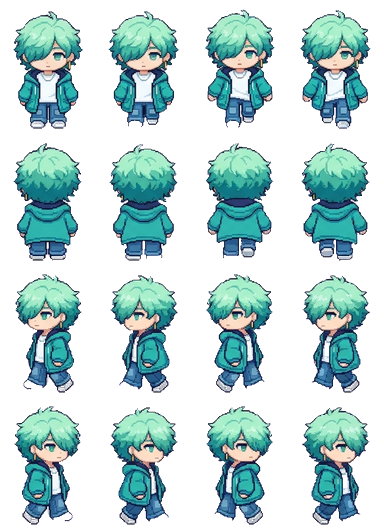
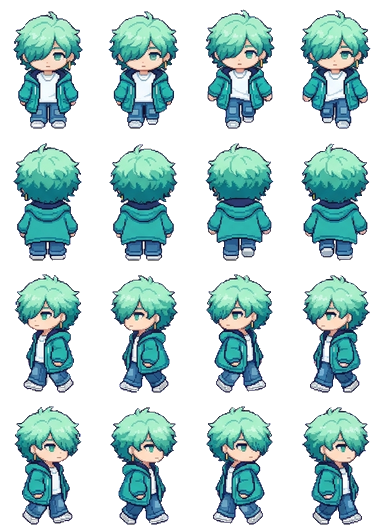
우고 카나토 흰 신발 누끼 복원, 히데오 옆머리 매끈하게
Claude-Session: https://claude.ai/code/session_01KaPsBYLrtbRfMYNG2xeBCK

diff --git a/docs/app.js b/docs/app.js
@@ -48,7 +48,7 @@ function spr(cat, k, col, sc) {
   return `<div class="clip" style="width:${it[2] * sc}px;height:${it[3] * sc}px;POS"><img class="px" src="assets/decor/${cat}.png" alt="" style="width:${S.sw * sc}px;height:${S.sh * sc}px;margin-left:${-col * S.cw * sc}px;margin-top:${-i * S.ch * sc}px"></div>`;
 }
 const icon = (k, sz) => `<span class="itm" style="width:${sz}px;height:${sz}px"><img class="px" src="assets/ui/items.png" alt="" style="width:${IT.length * sz}px;height:${sz}px;margin-left:${-ITM[k].i * sz}px"></span>`;
-const face = (id, w) => { const s = w / 96; return `<img class="px" src="assets/ch/${id}.webp?v=4" alt="" style="position:absolute;width:${384 * s}px;height:${528 * s}px;left:${-(96 * s - w) / 2}px;top:0;max-width:none">`; };
+const face = (id, w) => { const s = w / 96; return `<img class="px" src="assets/ch/${id}.webp?v=5" alt="" style="position:absolute;width:${384 * s}px;height:${528 * s}px;left:${-(96 * s - w) / 2}px;top:0;max-width:none">`; };
 
 // ---------- 저장 ----------
 let fb = null, user = null, S = null, saveT = null;
@@ -115,7 +115,7 @@ function sleepHTML(id, r) {
   const pos = r.a && r.a[0] === 'bed' ? 'left:3%;bottom:20%' : r.b && r.b[0] === 'bed' ? 'right:3%;bottom:20%' : 'left:calc(50% - 44px);bottom:6%';
   const s = 36 / 96;
   return `<div style="position:absolute;width:88px;height:56px;${pos};z-index:5"><div style="position:absolute;inset:0;filter:brightness(.22)">
-    <div style="position:absolute;left:11px;top:1px;width:36px;height:50px;overflow:hidden;transform:rotate(-90deg)"><img class="px" src="assets/ch/${id}.webp?v=4" alt="" style="width:${384 * s}px;height:${528 * s}px;max-width:none;margin-top:${-132 * s}px"></div>
+    <div style="position:absolute;left:11px;top:1px;width:36px;height:50px;overflow:hidden;transform:rotate(-90deg)"><img class="px" src="assets/ch/${id}.webp?v=5" alt="" style="width:${384 * s}px;height:${528 * s}px;max-width:none;margin-top:${-132 * s}px"></div>
     <div style="position:absolute;left:19px;top:19px;width:67px;height:29px;border:2px solid var(--ink);border-radius:8px 6px 4px 4px;background:#8ccff5;background-image:repeating-linear-gradient(90deg,transparent 0 10px,rgba(255,255,255,.5) 10px 13px)"></div></div>
     <span class="emo" style="left:8px;top:-22px;color:#5b6bd6">Z z z</span></div>`;
 }
@@ -125,7 +125,7 @@ function roomHTML(id, o, scale) {
     <div class="floor" style="background-color:${PAL[r.fc][1]};background-image:${tileUrl('floor', r.fl)}"></div>
     ${slot('deco', r.dc, 'left:6%;top:6%')}${slot('furn', r.a, 'left:3%;bottom:20%')}${slot('furn', r.b, 'right:3%;bottom:20%')}${slot('prop', r.pr, 'left:28%;bottom:4%;z-index:2')}
     ${id && o.sleeping ? sleepHTML(id, r) : ''}${id && o.job ? `<div style="position:absolute;left:50%;top:38%;transform:translateX(-50%);z-index:5;background:#fff;border:3px solid var(--ink);border-radius:10px;padding:6px 10px;font-size:11px;text-align:center;line-height:1.5"><img src="assets/ui/ic_job.png" alt="" style="width:18px;vertical-align:-4px"> ${esc(JOB_NAME[id])} 알바 중<br><b id="jobleft">${timeLeft(o.job.until)}</b></div>` : ''}
-    ${id ? `<div class="shadow" id="shd"></div><div class="man" id="man"><img class="px" src="assets/ch/${id}.webp?v=4" alt="${esc(nameOf(id))}"></div><span class="emo" id="emo" hidden></span><span class="mumble" id="mum" hidden></span>` : ''}
+    ${id ? `<div class="shadow" id="shd"></div><div class="man" id="man"><img class="px" src="assets/ch/${id}.webp?v=5" alt="${esc(nameOf(id))}"></div><span class="emo" id="emo" hidden></span><span class="mumble" id="mum" hidden></span>` : ''}
     ${o.sleeping ? '<div class="night"></div>' : ''}
   </div>`;
 }

diff --git a/docs/index.html b/docs/index.html
@@ -12,6 +12,6 @@
 <main id="app" aria-live="polite"></main>
 <div id="toast" role="status" hidden></div>
 <script src="firebase-config.js?v=3"></script>
-<script type="module" src="app.js?v=11"></script>
+<script type="module" src="app.js?v=12"></script>
 </body>
 </html>

diff --git a/tk_chars.py b/tk_chars.py
@@ -38,7 +38,7 @@ SIDE = {
     'saiki':          dict(left=[(2, 1), (2, 2), (2, 3), (2, 4)], right=None),
     'nozaki':         dict(left=[(3, 0), (3, 1), (3, 2)], right=[(2, 0), (2, 1), (2, 3), (2, 4)]),
     'shima':          dict(left=[(3, 1), (3, 2), (3, 3), (3, 4)], right=[(2, 1), (2, 2), (2, 3), (2, 4)]),
-    'mint':           dict(left=[(2, 1), (2, 2), (2, 3), (2, 4)], right=None),
+    'mint':           dict(left=[(2, 1), (2, 2), (2, 3), (2, 4)], right=None, outline=True),
     'karate':         dict(left=[(2, 1), (2, 2), (3, 1), (3, 2)], right=[(2, 4), (3, 3), (3, 4)], fill_inside=True),
 }
 PHASE_ALL = True
@@ -96,7 +96,7 @@ def checker_phase_bg(im):
     frac = ndimage.uniform_filter(match.astype(float), 7)
     return (match & (frac > .72)) | (frac > .9)
 
-def extract(path, fill_inside=False, fill_frame=0, phase=False, nofill=False):
+def extract(path, fill_inside=False, fill_frame=0, phase=False, nofill=False, outline=False):
     im = np.asarray(Image.open(path).convert('RGB')).astype(int); Hh, Ww = im.shape[:2]
     mx, mn = im.max(2), im.min(2)
     cand = (mx - mn < 30) & (mn > 135); S = max(Ww / 1152, Hh / 928)   # 시트 크기·비율이 달라도 같은 기준으로
@@ -204,6 +204,16 @@ def extract(path, fill_inside=False, fill_frame=0, phase=False, nofill=False):
                 lab4, n4 = ndimage.label(sub)
                 if n4 > 1: sz = ndimage.sum(sub, lab4, range(1, n4 + 1)); sub = (lab4 == (1 + int(np.argmax(sz)))) | (sub & np.isin(lab4, 1 + np.where(sz > sz.max() * .02)[0]))
                 m[y0:y1, x0:x1] = sub
+        if outline:   # 진한 외곽선으로 둘러싸인 안쪽(흰 신발 등)은 캐릭터로
+            ys, xs = np.where(m); bb = (slice(max(0, ys.min() - 4), ys.max() + 5), slice(max(0, xs.min() - 4), xs.max() + 5))
+            ol = (im[bb].max(2) < 110) & ndimage.binary_dilation(m[bb], iterations=6)
+            enc = ndimage.binary_fill_holes(ndimage.binary_closing(ol | m[bb], iterations=1)) & ~m[bb]
+            hl, hn = ndimage.label(enc)
+            sub = m[bb].copy()
+            for i in range(1, hn + 1):
+                r = hl == i
+                if r.sum() < 900 * S * S and grey[bb][r].mean() < .35: sub |= r
+            m = m.copy(); m[bb] = sub
         ys, xs = np.where(m); y0, y1, x0, x1 = ys.min(), ys.max() + 1, xs.min(), xs.max() + 1
         crop = rgba[y0:y1, x0:x1].copy(); crop[..., 3] = np.where(m[y0:y1, x0:x1], 255, 0)
         frames.append(dict(img=crop, cx=(x0 + x1) / 2, cy=(y0 + y1) / 2, top=y0, bot=y1))
@@ -257,11 +267,11 @@ def trim_side_hair(img, ref):
     above = [yy for yy in range(max(0, ys[0] - 4), ys[0]) if (a[yy, :, 3] > 0).any()]
     if above:
         yb = above[-1]; xs_b = np.where(a[yb, :, 3] > 0)[0]; bl, br = xs_b.min(), xs_b.max()
-        n = max(4, int((ys[-1] - ys[0]) * .45))
+        n = max(4, int((ys[-1] - ys[0]) * .6)); pel, per = -1, 10 ** 6
+        lf = min(L[k] for k in ys[:n]); rf = max(Rr[k] for k in ys[:n])   # 얼굴 폭은 고정값으로: 줄마다 들쭉날쭉하지 않게
         for i, y in enumerate(ys[:n]):
-            t = i / n; win = [k for k in ys if abs(k - y) <= 5]
-            l = min(L[k] for k in win); r = max(Rr[k] for k in win)
-            el = int(round(bl + (l - bl) * t)); er = int(round(br + (r - br) * t))
+            t = (i / n) ** .8; win = [k for k in ys if abs(k - y) <= 5]; l = min(L[k] for k in win); r = max(Rr[k] for k in win)
+            el = min(l - 1, max(pel, int(round(bl + (lf - bl) * t)))); er = max(r + 1, min(per, int(round(br + (rf - br) * t)))); pel, per = el, er
             for x in range(max(0, el), l - 1):
                 if a[y, x, 3] == 0 or True: a[y, x] = hair
             for x in range(r + 2, min(w, er + 1)):
@@ -288,7 +298,7 @@ def shrink(img, scale):
 def build():
     sheet_rows, meta = [], []
     for (cid, fn, name, mp, tile, lines, force) in SHEETS:
-        rows = extract('chars_src/' + fn, fill_inside=SIDE.get(cid, {}).get('fill_inside', False), fill_frame=SIDE.get(cid, {}).get('fill_frame', 0), phase=SIDE.get(cid, {}).get('phase', PHASE_ALL), nofill=SIDE.get(cid, {}).get('nofill', False))
+        rows = extract('chars_src/' + fn, fill_inside=SIDE.get(cid, {}).get('fill_inside', False), fill_frame=SIDE.get(cid, {}).get('fill_frame', 0), phase=SIDE.get(cid, {}).get('phase', PHASE_ALL), nofill=SIDE.get(cid, {}).get('nofill', False), outline=SIDE.get(cid, {}).get('outline', False))
         allf = [(ri, f) for ri, row in enumerate(rows) for f in row]
         hmax = max(f['img'].shape[0] for _, f in allf); scale = TARGET * R / hmax
         groups = {d: [] for d in DIRS}
